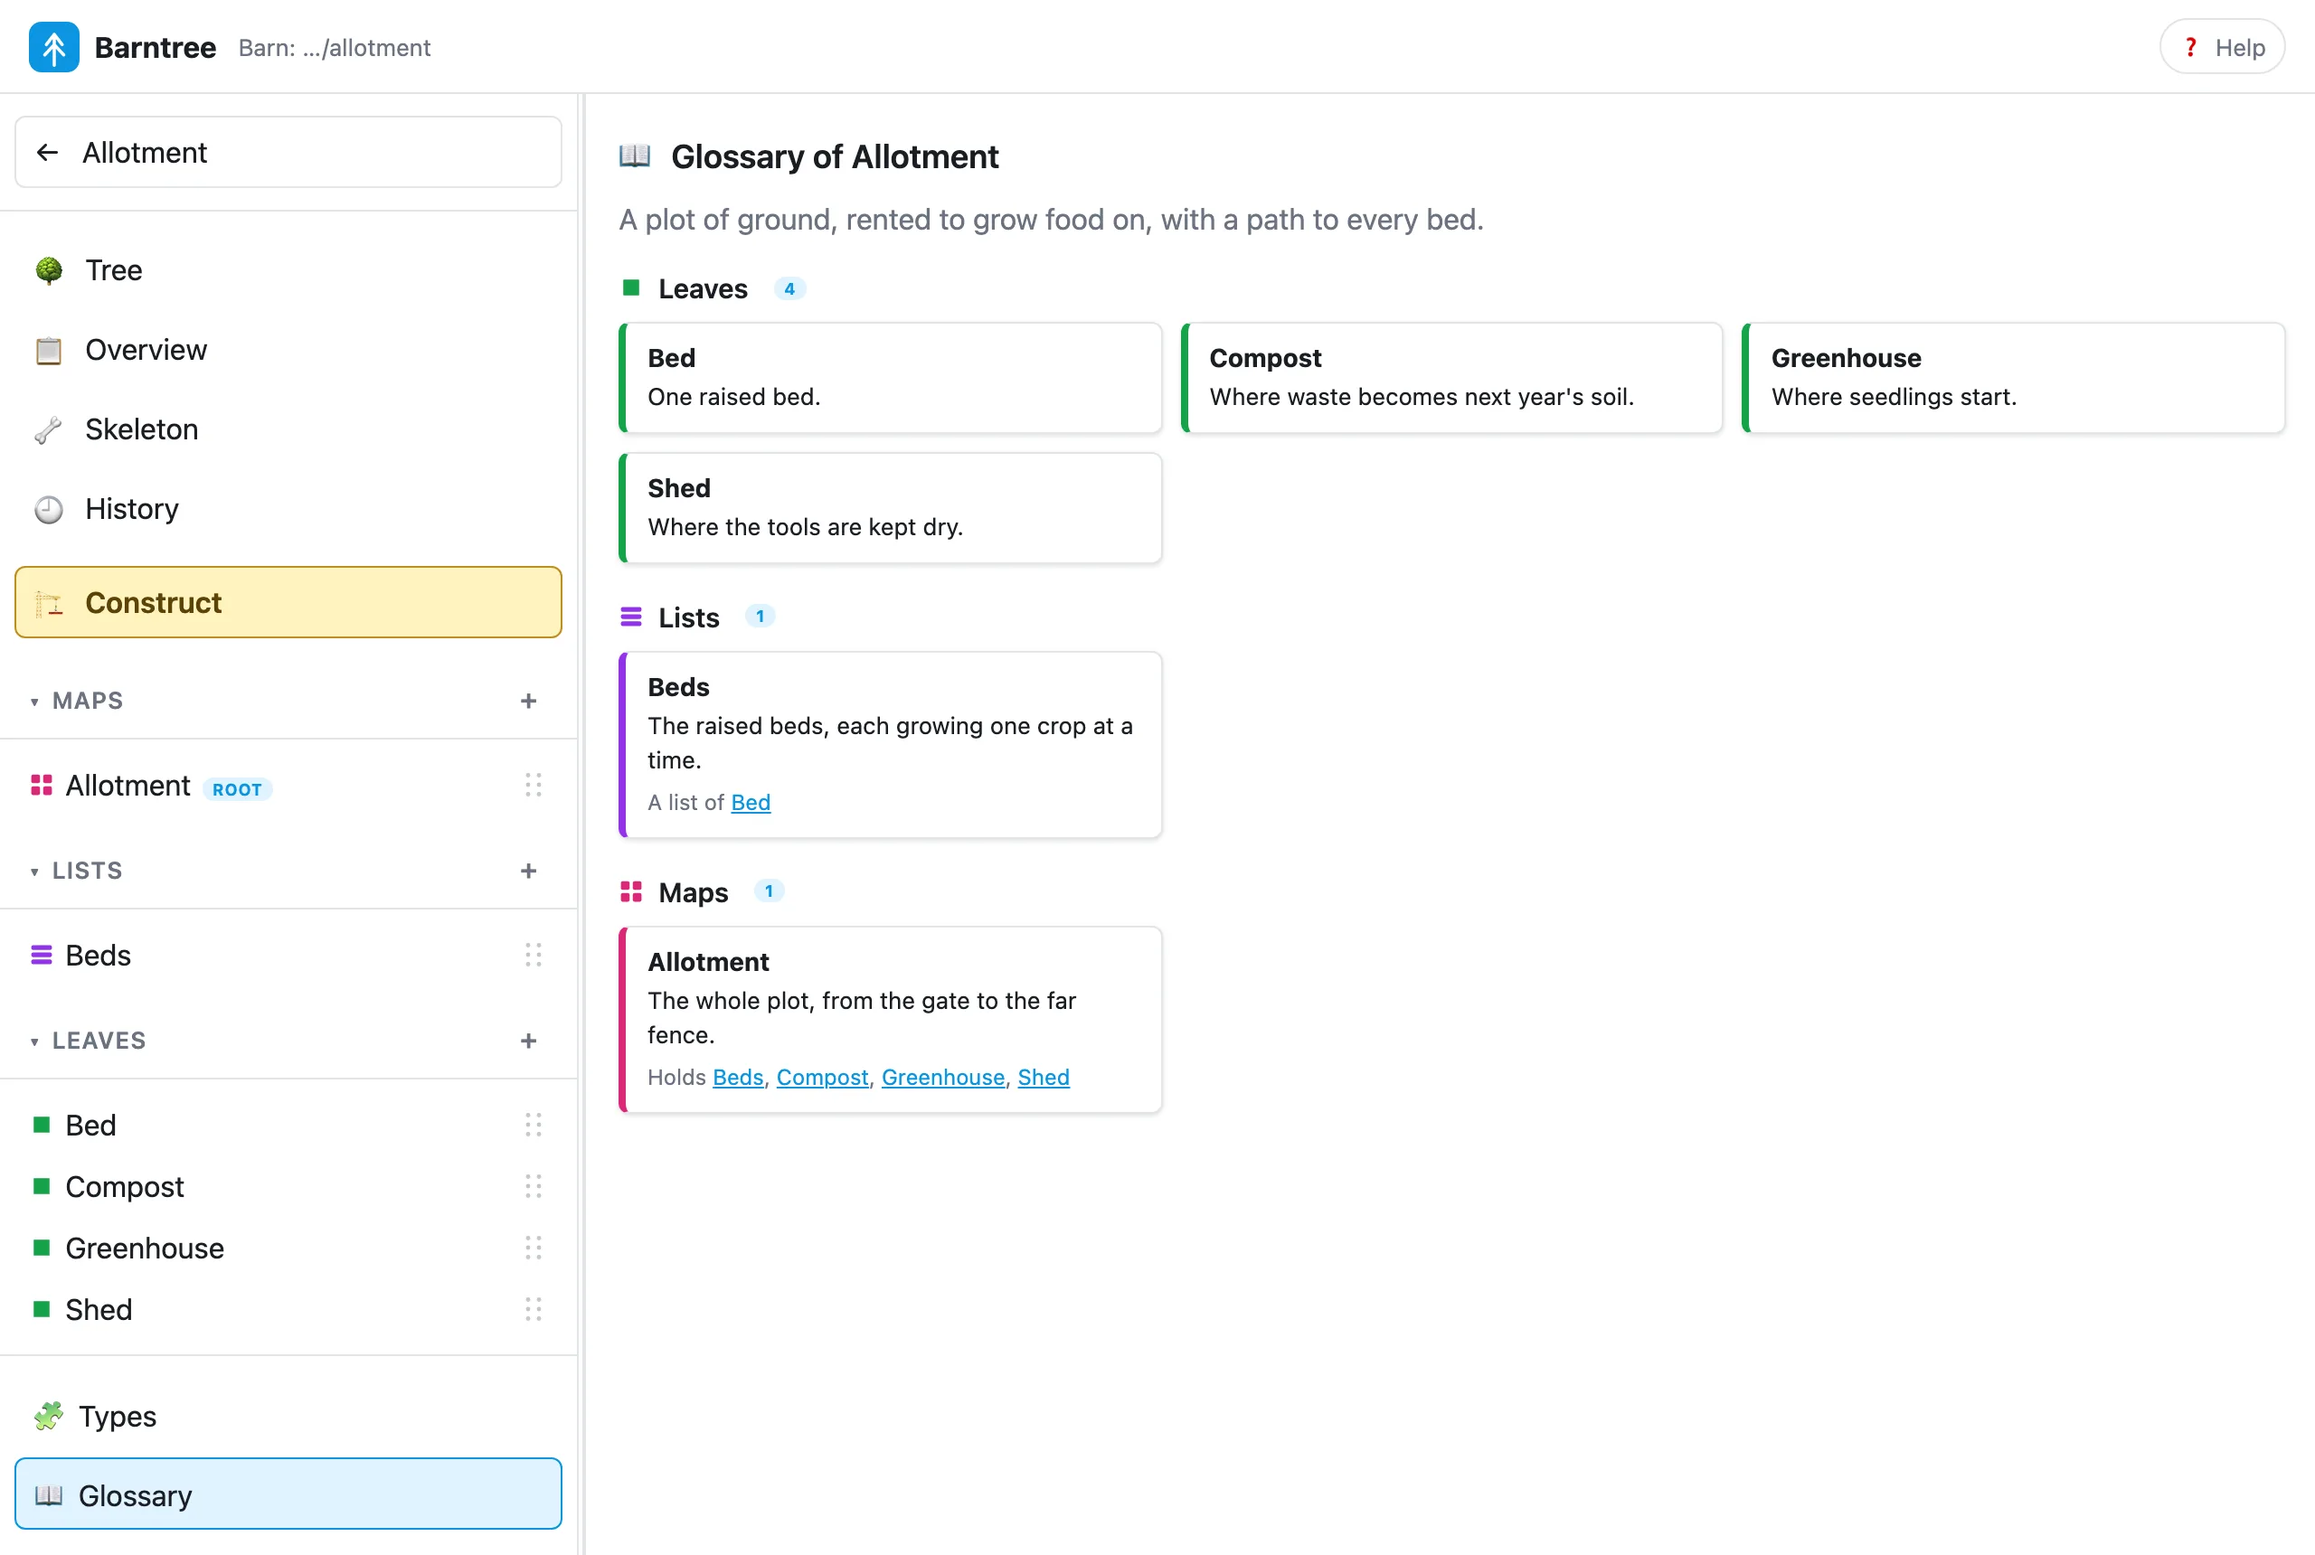
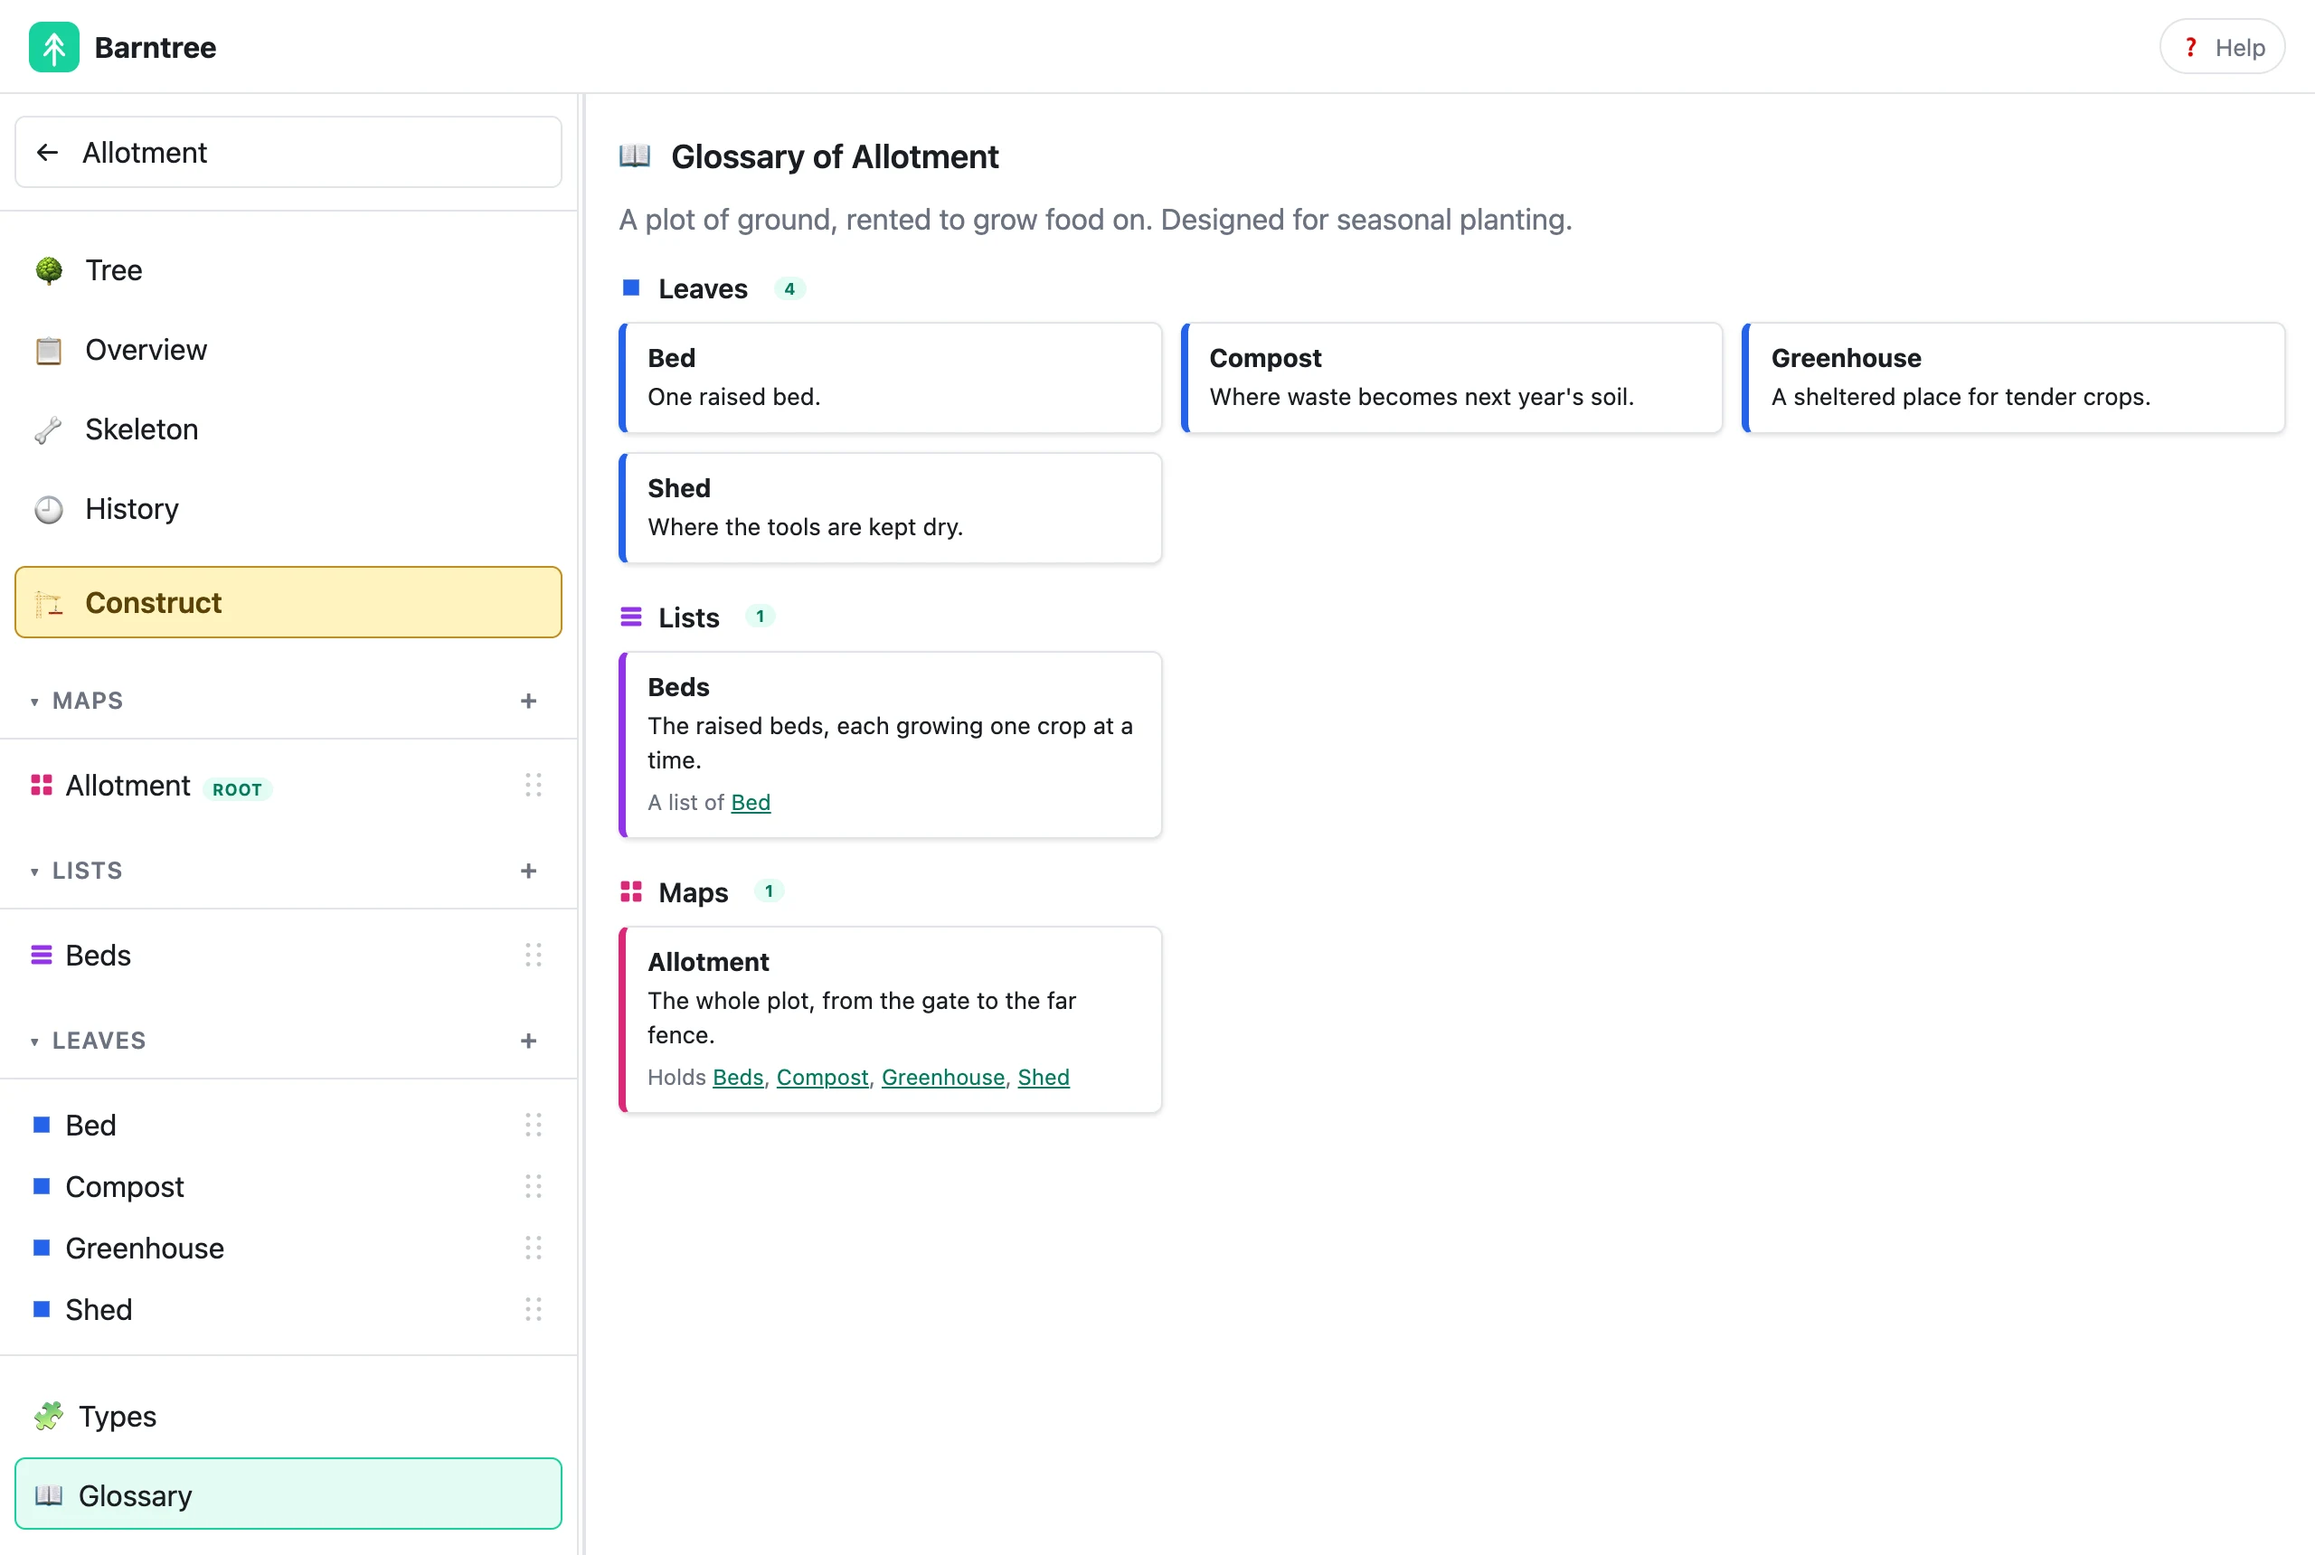
Refresh Barntree screenshots with current mint branding

diff --git a/README.md b/README.md
@@ -20,3 +20,26 @@ trees, templates, constructions, history, export, check, gui, cli, php, install,
 troubleshooting). Every command shown was run for real in a disposable barn with the released
 packages, and its output pasted in with paths shortened by "…". Retake them when a command's output
 changes.
+
+## Screenshots refreshed 2026-11-14
+
+All five images were retaken in Chrome at 1280 CSS pixels wide and 2× resolution,
+using the released GUI v0.1.3 (unchanged checkout) and core v0.1.4. They show the
+current white Barntree mark on mint and mint navigation highlights. Existing image
+names and dimensions are retained.
+
+The disposable allotment is created through the app’s API from the Quick start’s
+Template. Its four real revisions add a description, create Greenhouse and add it
+to the root. An independent Construction made before Greenhouse is added retains
+its original structure; its seven revisions create Plot 12, add Beans and Carrots,
+rename Carrots to Leeks, add and remove Peas, and rename the Construction.
+
+- `barntree-tpl-tree`: the expanded Allotment Template, including Each Bed.
+- `barntree-tpl-glossary`: its four Leaves, one List and one Map with meanings.
+- `barntree-tpl-history`: its four saved revisions.
+- `barntree-cs-tree`: Plot 12, north end, with Beans and Leeks tagged Watered.
+- `barntree-cs-history`: the Construction’s seven saved revisions.
+
+Only the temporary local barn path is hidden; the app’s content and branding are
+unmodified. Seed and capture scripts are retained in
+`/private/tmp/barntree-green-screens/` on the capture machine.

diff --git a/docs/style-guide.md b/docs/style-guide.md
@@ -34,7 +34,7 @@ header navigation is the same on every page: Philosophy, Quick start, Documentat
 
 ## 4. Exceptions
 
-- The site header's wordmark is Barntree's own mark in a blue tile, not the Barn barn mark. Reason: each
+- The site header's wordmark is Barntree's own mark in a mint tile, not the Barn barn mark. Reason: each
   tool site reads as if the other tools did not exist (website guide §1). The `.tool-mark` rule is in
   `assets/site.css`.
 - The header links to the main Barn site as "Barn", in place of the tool tabs of the main site.
